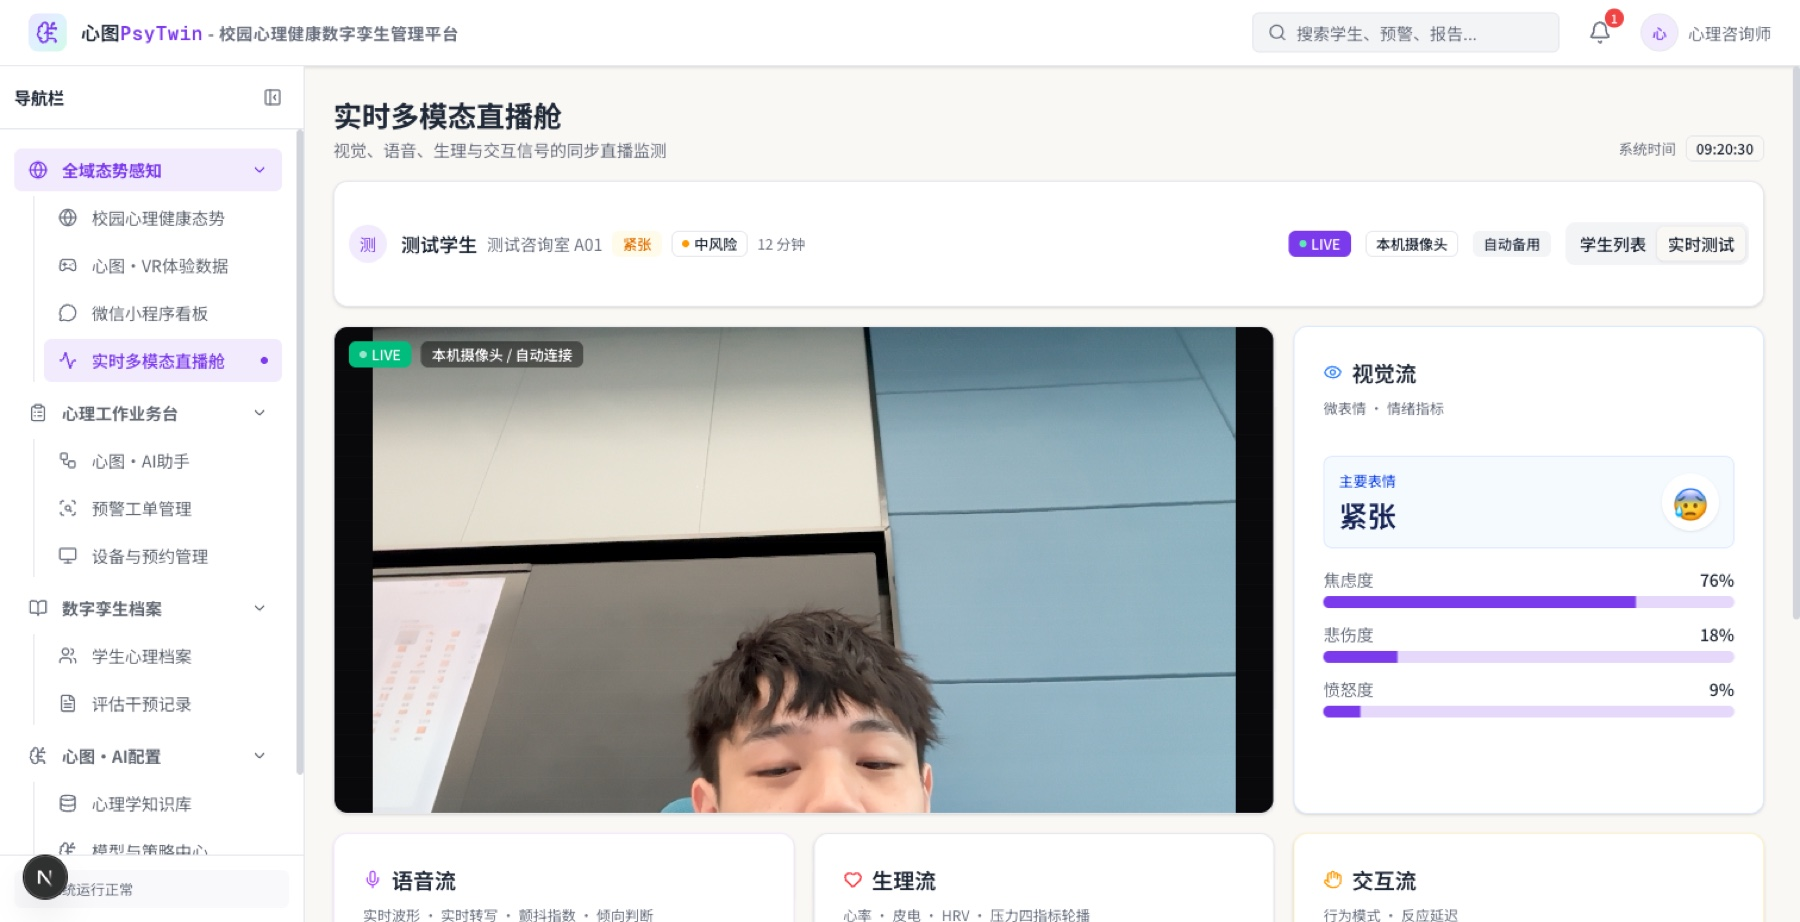
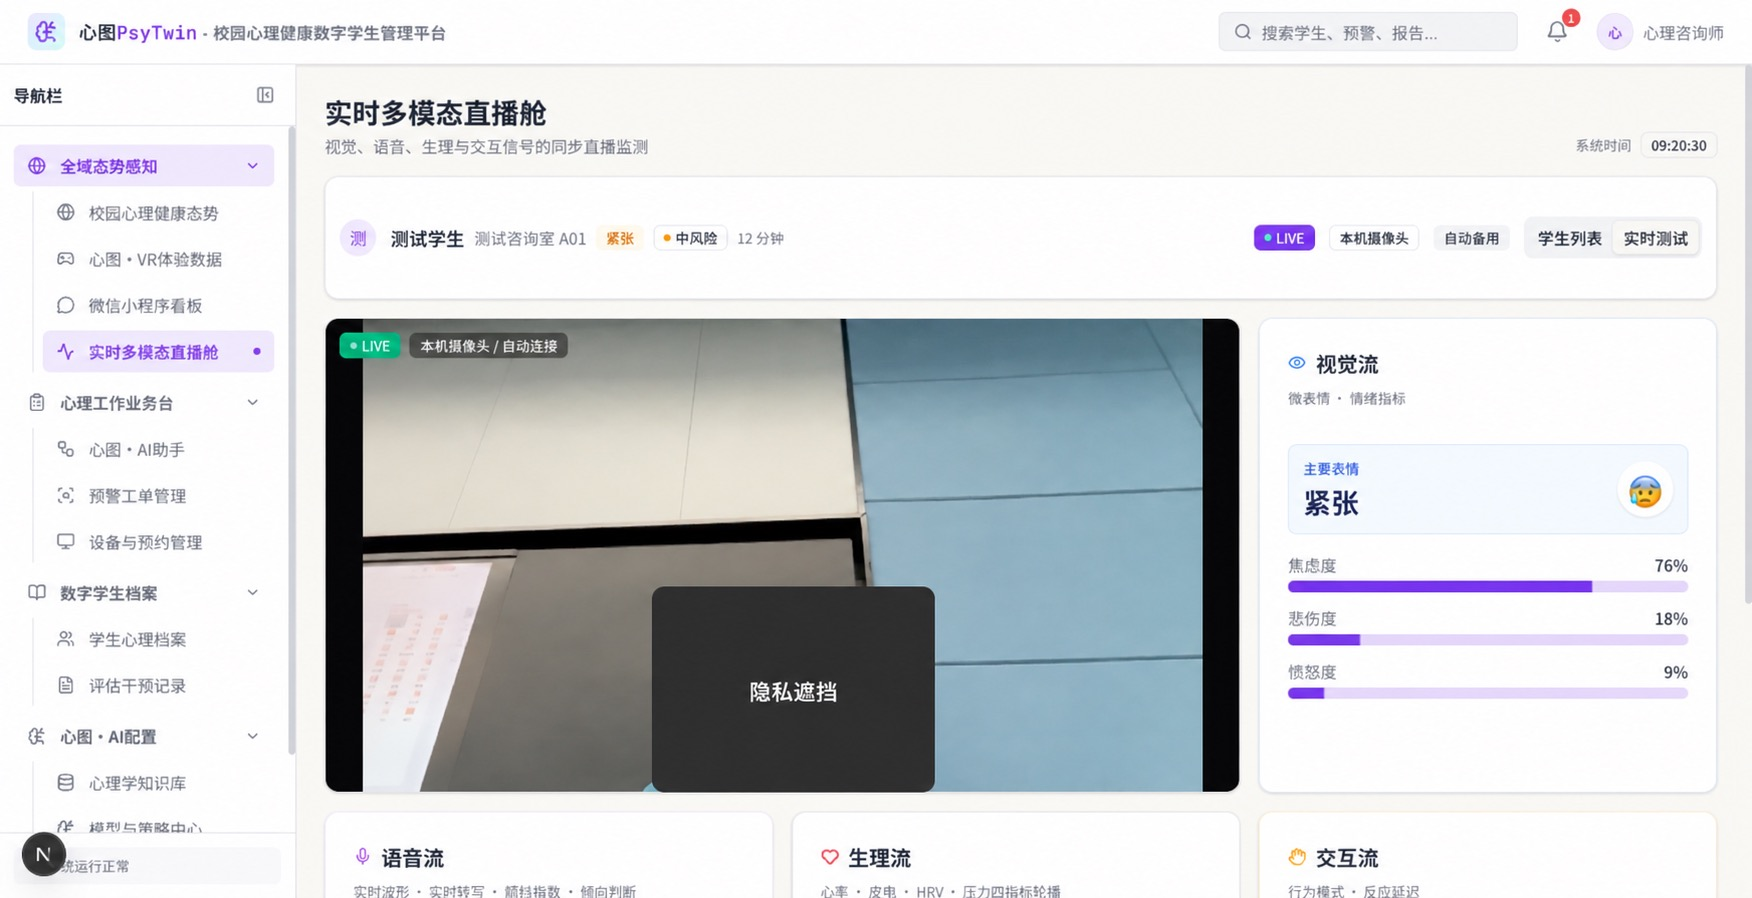
docs: redact camera imagery and introduce Reachy Mini integration

diff --git a/README.en.md b/README.en.md
@@ -4,6 +4,10 @@
 
 A campus mental health digital twin management platform for counseling centers and student advisors. Sentinel brings multimodal monitoring, student profiles, risk alerts, intervention records, and service appointments into one workspace.
 
+![Reachy Mini device, speech and motion integration with Sentinel](docs/images/reachy-mini-overview.png)
+
+*Integration illustration, not a photo of our deployed device or live acceptance evidence. Robot artwork: [Pollen Robotics](https://github.com/pollen-robotics/reachy_mini/blob/54f5efcfa8c228c674d97de2f85996515143b8ce/ts/host/src/assets/reachy-standard.svg), [Apache-2.0](docs/images/third-party/reachy-mini-LICENSE.txt); project integration layout added.*
+
 ## System preview
 
 ### RAG knowledge base
@@ -12,7 +16,7 @@ A campus mental health digital twin management platform for counseling centers a
 
 ### Live multimodal monitoring
 
-![Live multimodal monitoring workspace](docs/images/live-cabin.jpg)
+![Live multimodal monitoring workspace with opaque face redaction](docs/images/live-cabin.jpg)
 
 ### Multimodal data analysis
 

diff --git a/docs/CHANGELOG.md b/docs/CHANGELOG.md
@@ -11,12 +11,16 @@ Generated by [`auto-changelog`](https://github.com/CookPete/auto-changelog).
 
 ### Added
 
+- README 首部新增 Reachy Mini 集成示意图，并保留机器人插画来源与 Apache-2.0 许可。
+
 - 新增英文 README，与中文首页互相提供语言切换入口。
 
 - 集成 LightRAG 心理学知识库管理台到 `AI 配置 -> RAG 向量知识库` 页面，支持在 Sentinel 内直接使用文档管理、知识图谱、检索问答和 API 调试。
 - 新增 `docs/LIGHTRAG_INTEGRATION.md`，记录 LightRAG API Key、阿里云百炼模型配置、文档入库流程、图谱验证命令和常见问题。
 
 ### Changed
+
+- 为直播舱演示截图中的人脸添加不透明遮挡，移除当前版本未引用的摄像头人像测试文件；历史提交未改写。
 
 - 精简项目首页，以本地实际运行截图展示 RAG 知识库、实时直播舱与多模态分析界面，并集中保留核心能力、启动步骤和文档入口。
 

diff --git a/README.md b/README.md
@@ -4,6 +4,10 @@
 
 校园心理健康数字孪生管理平台，面向心理中心与辅导员，将多模态监测、学生档案、风险预警、干预记录与服务预约汇集在同一工作台。
 
+![Reachy Mini 与 Sentinel 的设备、语音和动作集成](docs/images/reachy-mini-overview.png)
+
+*Reachy Mini 集成示意；机器人插画来自 [Pollen Robotics](https://github.com/pollen-robotics/reachy_mini/blob/54f5efcfa8c228c674d97de2f85996515143b8ce/ts/host/src/assets/reachy-standard.svg)，按 [Apache-2.0](docs/images/third-party/reachy-mini-LICENSE.txt) 使用，已添加项目集成布局。非项目设备实拍或在线验收记录。*
+
 ## 系统预览
 
 ### RAG 知识库
@@ -12,7 +16,7 @@
 
 ### 实时多模态直播舱
 
-![实时多模态直播舱运行界面](docs/images/live-cabin.jpg)
+![实时多模态直播舱运行界面，人脸已不透明遮挡](docs/images/live-cabin.jpg)
 
 ### 多模态数据分析
 
